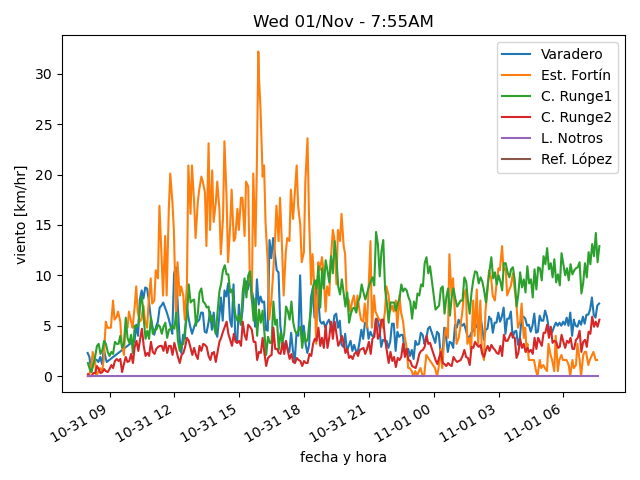
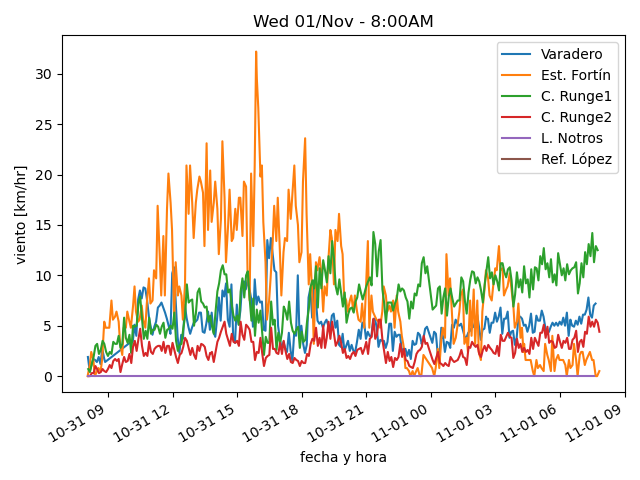
actualiza datos

diff --git a/estaciones/estacion4.html b/estaciones/estacion4.html
@@ -18,22 +18,22 @@
     </tr>
     <tr>
      <td class="stats_data">
-      7:39AM
+      7:49AM
      </td>
     </tr>
     <tr>
      <td class="stats_data">
-      2.4⁰C
+      2.3⁰C
      </td>
     </tr>
     <tr>
      <td class="stats_data">
-      1.2⁰C
+      1.1⁰C
      </td>
     </tr>
     <tr>
      <td class="stats_data">
-      91.8%
+      92.2%
      </td>
     </tr>
     <tr>
@@ -43,7 +43,7 @@
     </tr>
     <tr>
      <td class="stats_data">
-      3.6/5.6 km/hr SE
+      2.7/4.4 km/hr SE
      </td>
     </tr>
     <tr>
@@ -58,7 +58,7 @@
     </tr>
     <tr>
      <td class="stats_data">
-      30.2 W/m²
+      29.5 W/m²
      </td>
     </tr>
    </tbody>

diff --git a/estaciones/estacion2.html b/estaciones/estacion2.html
@@ -18,17 +18,17 @@
     </tr>
     <tr>
      <td class="stats_data">
-      7:33AM
+      7:49AM
      </td>
     </tr>
     <tr>
      <td class="stats_data">
-      1.8⁰C
+      1.9⁰C
      </td>
     </tr>
     <tr>
      <td class="stats_data">
-      1.1⁰C
+      1.2⁰C
      </td>
     </tr>
     <tr>
@@ -43,7 +43,7 @@
     </tr>
     <tr>
      <td class="stats_data">
-      0.0/1.6 km/hr ESE
+      0.0/0.5 km/hr ESE
      </td>
     </tr>
     <tr>
@@ -58,7 +58,7 @@
     </tr>
     <tr>
      <td class="stats_data">
-      21.0 W/m²
+      19.0 W/m²
      </td>
     </tr>
    </tbody>

diff --git a/estaciones/estacion3.html b/estaciones/estacion3.html
@@ -18,12 +18,12 @@
     </tr>
     <tr>
      <td class="stats_data">
-      7:39AM
+      7:44AM
      </td>
     </tr>
     <tr>
      <td class="stats_data">
-      2.4⁰C
+      2.3⁰C
      </td>
     </tr>
     <tr>
@@ -33,17 +33,17 @@
     </tr>
     <tr>
      <td class="stats_data">
-      93.8%
+      94.2%
      </td>
     </tr>
     <tr>
      <td class="stats_data">
-      1012.43hPa
+      1012.33hPa
      </td>
     </tr>
     <tr>
      <td class="stats_data">
-      10.0/12.9 km/hr SE
+      9.5/12.5 km/hr ESE
      </td>
     </tr>
     <tr>
